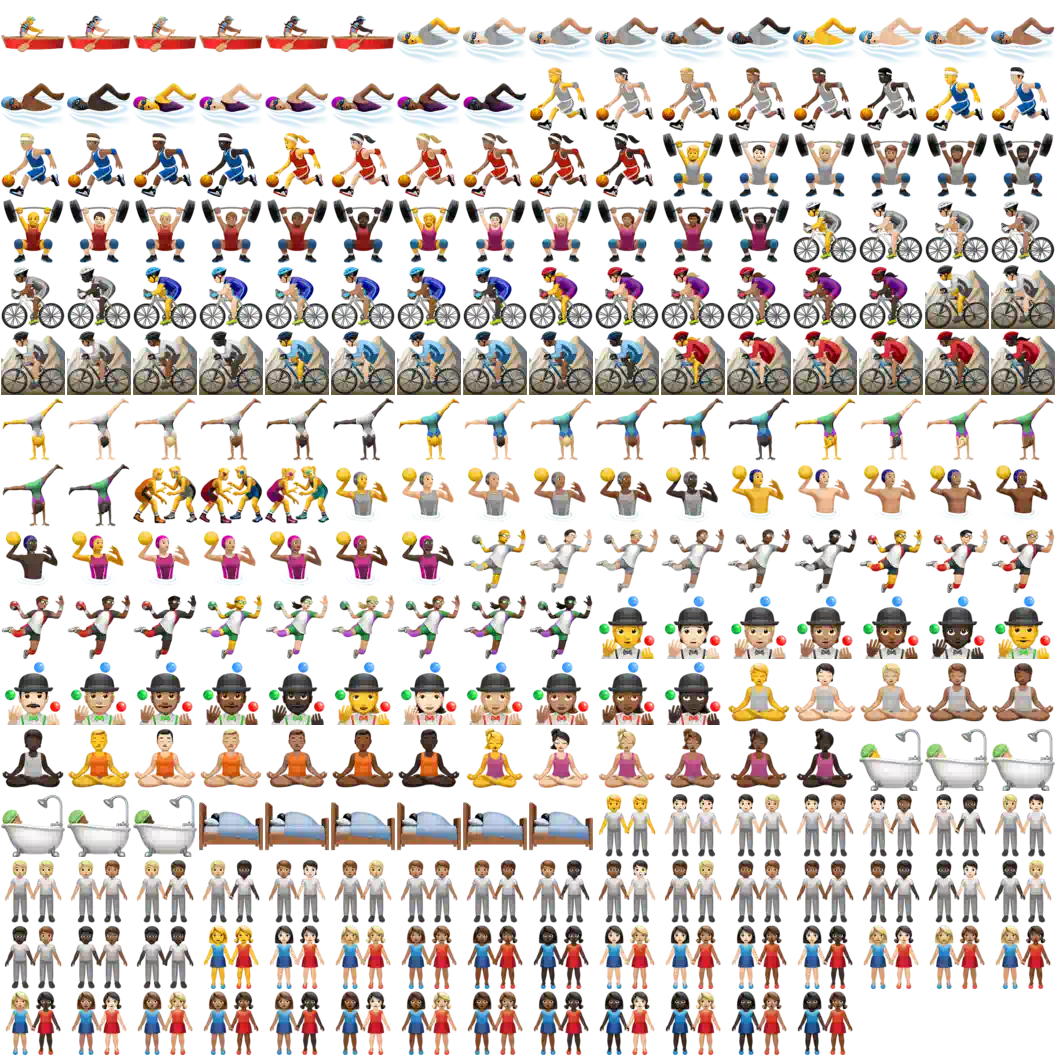
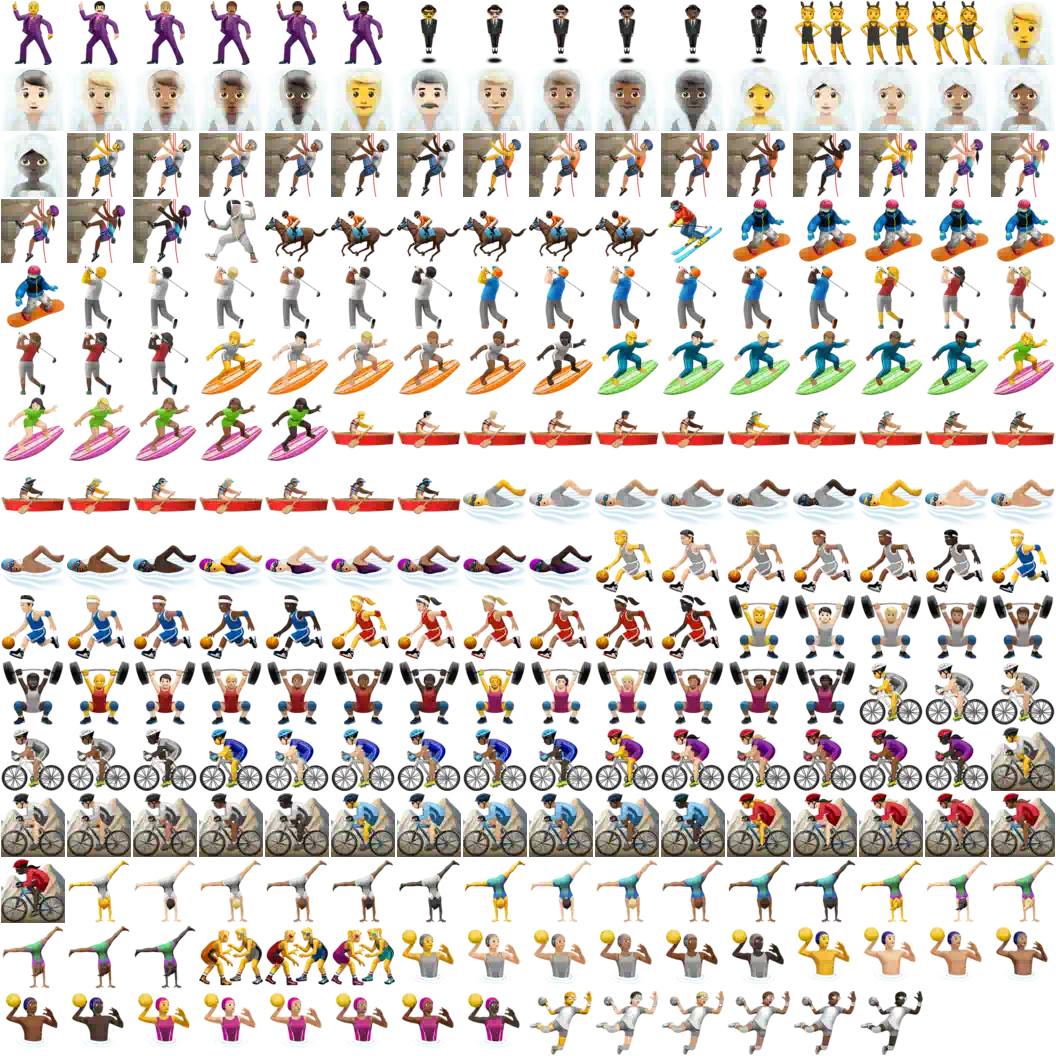
Update built-in emoji to v15.1

diff --git a/app/src/main/java/org/thoughtcrime/securesms/migrations/ApplicationMigrations.java b/app/src/main/java/org/thoughtcrime/securesms/migrations/ApplicationMigrations.java
@@ -144,9 +144,10 @@ public class ApplicationMigrations {
     static final int SVR2_ENCLAVE_UPDATE           = 100;
     static final int STORAGE_LOCAL_UNKNOWNS_FIX    = 101;
     static final int PNP_LAUNCH                    = 102;
+    static final int EMOJI_VERSION_10              = 103;
   }
 
-  public static final int CURRENT_VERSION = 102;
+  public static final int CURRENT_VERSION = 103;
 
   /**
    * This *must* be called after the {@link JobManager} has been instantiated, but *before* the call
@@ -655,6 +656,10 @@ public class ApplicationMigrations {
 
     if (lastSeenVersion < Version.PNP_LAUNCH) {
       jobs.put(Version.PNP_LAUNCH, new PnpLaunchMigrationJob());
+    }
+
+    if (lastSeenVersion < Version.EMOJI_VERSION_10) {
+      jobs.put(Version.EMOJI_VERSION_10, new EmojiDownloadMigrationJob());
     }
 
     return jobs;
